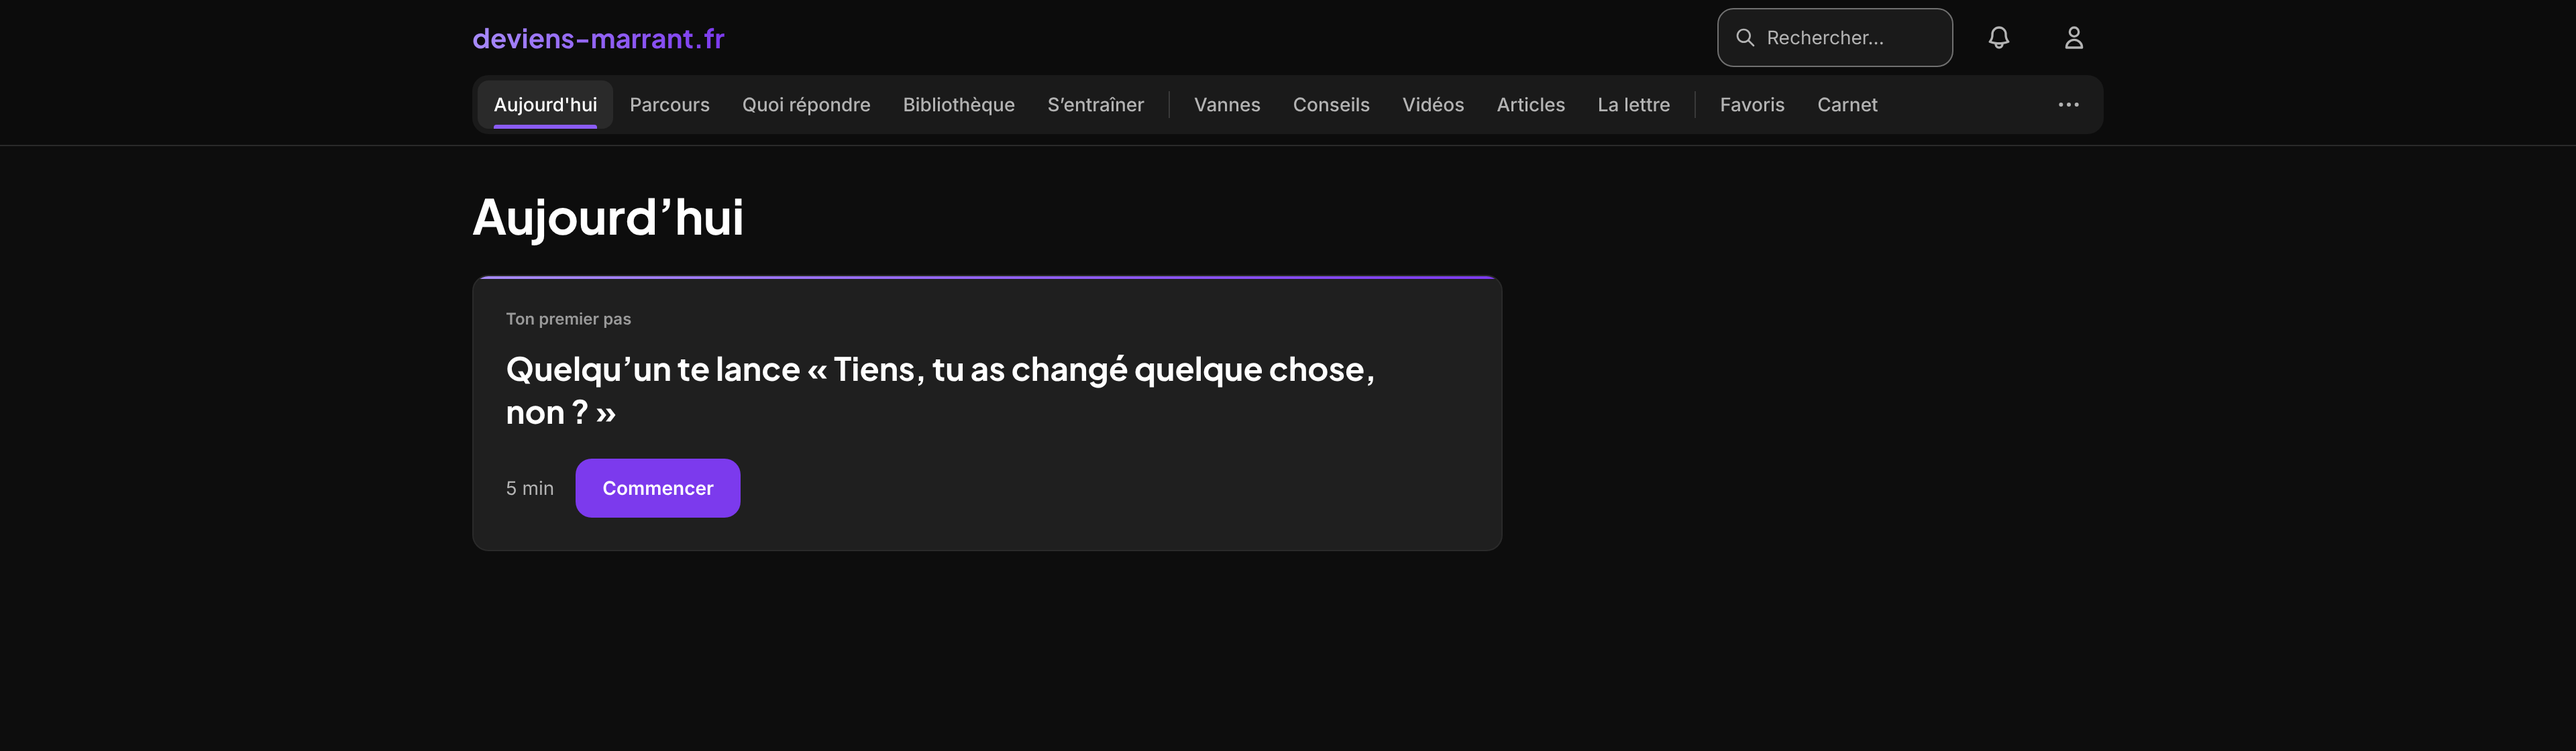
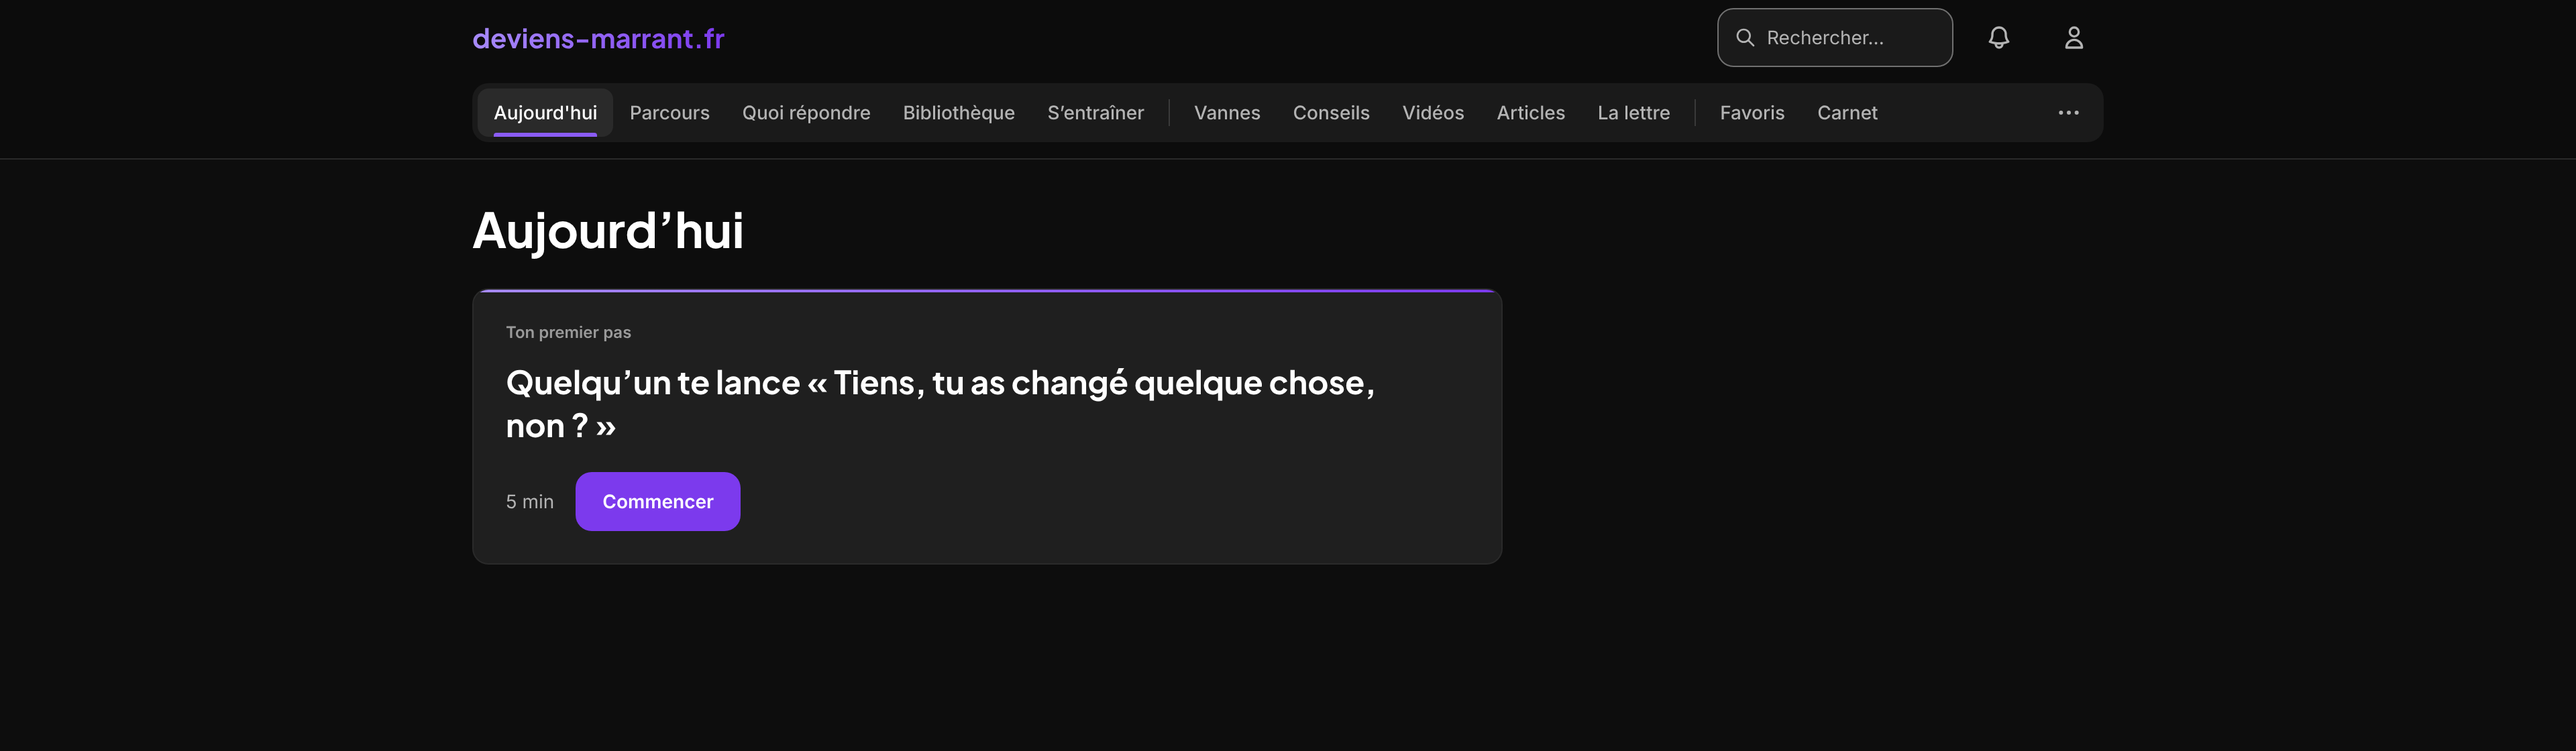
docs(design): variante D retouchée (air, fondus, suite visible, focus et menu « … »), 32 captures
Claude-Session: https://claude.ai/code/session_012PS7Smon81B1C68tKthZJ6

Changed region(s): [[0.1875, 0.25, 0.5625, 0.7188], [0.0, 0.0938, 1.0, 0.2188]]

diff --git a/docs/espace-client/etalons/nav-v6/maquette.html b/docs/espace-client/etalons/nav-v6/maquette.html
@@ -75,6 +75,9 @@ tailwind.config = {
   .plusbtn.on::after{content:"";position:absolute;left:10px;right:10px;bottom:0;height:2px;border-radius:2px 2px 0 0;background:#8B5CF6}
   /* D : pastille douce de 36 px dans une zone de 44 px, survol, actif en pastille elevated + soulignement de 3 px */
   .vd .chip{border-radius:8px}
+  .vd .chip svg{width:14px;height:14px}
+  .vd .plusbtn{border-radius:8px}
+  .vd .plusbtn:focus-visible{outline-offset:-2px;border-radius:8px}
   .vd .chip::before,.vd .plusbtn::before{content:"";position:absolute;inset:4px 0;z-index:-1;border-radius:8px;transition:background-color 150ms}
   .vd .chip:hover::before,.vd .plusbtn:hover::before{background:rgba(255,255,255,.05)}
   .vd .chip[aria-current]::before,.vd .plusbtn.on::before{background:#2A2A2A}
@@ -120,7 +123,7 @@ tailwind.config = {
     var prem = g===1 && !abonne;
     var cur = l[0]===actif ? ' aria-current="page"' : '';
     var nom = prem ? ' aria-label="'+l[0]+', rubrique Premium"' : '';
-    return '<a class="chip" data-n="'+l[0]+'" data-g="'+g+'" href="'+(l[1]?lien(l[1]):'#')+'"'+cur+nom+'>'+l[0]+(prem ? lock : '')+'</a>';
+    return '<a class="chip'+(V==="d"?' snap-start':'')+'" data-n="'+l[0]+'" data-g="'+g+'" href="'+(l[1]?lien(l[1]):'#')+'"'+cur+nom+'>'+l[0]+(prem ? lock : '')+'</a>';
   }
   function sp(n){
     if(V==="d"){ return '<span class="sp" data-s="'+n+'" aria-hidden="true" style="flex:none;width:1px;height:20px;margin:0 6px;background:#3A3A3A"></span>'; }
@@ -156,7 +159,7 @@ tailwind.config = {
   if(V==="b"){
     band = '<div class="py-2"><nav aria-label="Rubriques" class="'+wrapPad+'"><div id="rub" class="rub flex w-fit max-w-full items-center overflow-x-auto rounded-full bg-white/[.04] px-1">'+seq()+dots(false)+'</div></nav></div>';
   } else if(V==="d"){
-    band = '<div class="pb-2"><nav aria-label="Rubriques" class="'+wrapPad+'"><div id="rub" class="rub flex w-full items-center overflow-x-auto rounded-xl bg-background-light px-1">'+seq()+dots(false)+'</div></nav></div>';
+    band = '<div class="pb-2 md:pb-3 md:pt-1.5"><nav aria-label="Rubriques" class="'+wrapPad+'"><div id="rub" class="rub scroll-px-10 flex w-full items-center overflow-x-auto rounded-xl bg-background-light px-1">'+seq()+dots(false)+'</div></nav></div>';
   } else {
     band = '<nav aria-label="Rubriques" class="'+wrapPad+(V==="c"?' xl:hidden':'')+'"><div id="rub" class="rub -mx-3 flex items-center overflow-x-auto">'+seq()+dots(false)+'</div></nav>';
   }
@@ -215,7 +218,8 @@ tailwind.config = {
   function fondu(){
     if(!rub) return;
     var g = rub.scrollLeft>4, d = rub.scrollLeft < rub.scrollWidth-rub.clientWidth-4;
-    var m = "linear-gradient(to right,"+(g?"transparent 0,#000 24px":"#000 0")+","+(d?"#000 calc(100% - 24px),transparent 100%":"#000 100%")+")";
+    var e = V==="d" ? 40 : 24;
+    var m = "linear-gradient(to right,"+(g?"transparent 0,#000 "+e+"px":"#000 0")+","+(d?"#000 calc(100% - "+e+"px),transparent 100%":"#000 100%")+")";
     rub.style.webkitMaskImage = rub.style.maskImage = (g||d) ? m : "none";
   }
   function centrer(){
@@ -225,9 +229,27 @@ tailwind.config = {
       var x = a.getBoundingClientRect().left - rub.getBoundingClientRect().left + rub.scrollLeft;
       rub.scrollLeft = x - (rub.clientWidth - a.offsetWidth)/2;
     }
+    if(V==="d"){
+      /* Variante D : s'il reste du contenu à droite, un chip doit être visiblement entamé au bord (jamais un séparateur en dernier) */
+      var max = rub.scrollWidth - rub.clientWidth, base = rub.scrollLeft;
+      if(base < max-4){
+        var bord = rub.getBoundingClientRect().right;
+        for(var dx=0; dx<=40; dx+=8){
+          rub.scrollLeft = base+dx;
+          var coupe = [].some.call(rub.querySelectorAll(".chip"), function(c){
+            var r = c.getBoundingClientRect(); return r.left < bord-24 && r.right > bord; });
+          if(coupe) break;
+        }
+      }
+    }
     fondu();
   }
   if(rub){ rub.addEventListener("scroll", fondu); }
+  /* D : l'accroche (snap-x) ne s'active qu'au premier geste, pour ne pas défaire le placement d'arrivée */
+  if(rub && V==="d"){
+    var accroche = function(){ rub.classList.add("snap-x"); };
+    ["pointerdown","touchstart","wheel","keydown"].forEach(function(ev){ rub.addEventListener(ev, accroche, {once:true, passive:true}); });
+  }
 
   /* Variante C : débordement des rubriques les moins prioritaires dans « … » (dès 1280 px) */
   var cache = [];
@@ -268,7 +290,7 @@ tailwind.config = {
     menu.innerHTML = (V==="d" ? '<div class="filet"></div>' : '') + liste.map(function(it){
       var prem = it[1] && !abonne;
       return '<a role="menuitem" href="'+it[2]+'" class="flex h-11 items-center justify-between gap-3 rounded-md px-3 text-sm font-medium text-text-secondary hover:bg-background-elevated hover:text-text-primary">'+it[0]+
-        (prem ? '<span style="width:12px;height:12px;color:#9A9A9A">'+lock.replace('<svg','<svg style="width:12px;height:12px"')+'</span>' : '')+'</a>';
+        (prem ? '<span style="width:'+(V==="d"?14:12)+'px;height:'+(V==="d"?14:12)+'px;color:#9A9A9A">'+lock.replace('<svg','<svg style="width:'+(V==="d"?14:12)+'px;height:'+(V==="d"?14:12)+'px"')+'</span>' : '')+'</a>';
     }).join('');
   }
   function ouvrir(b, o){
@@ -286,6 +308,28 @@ tailwind.config = {
   [].forEach.call(document.querySelectorAll(".plusbtn"), function(b){
     b.addEventListener("click", function(){ ouvrir(b, menu.hidden || courant!==b); });
   });
+  if(V==="d"){
+    /* Clic dehors ferme ; flèches haut et bas (et Début, Fin) entre les lignes ; flèche bas sur « … » ouvre et va à la 1re ligne */
+    document.addEventListener("click", function(e){
+      if(menu.hidden) return;
+      if(menu.contains(e.target) || e.target.closest(".plusbtn")) return;
+      ouvrir(courant,false);
+    });
+    var lignesMenu = function(){ return [].slice.call(menu.querySelectorAll("[role=menuitem]")); };
+    menu.addEventListener("keydown", function(e){
+      var l = lignesMenu(), i = l.indexOf(document.activeElement), n = -1;
+      if(e.key==="ArrowDown") n = (i+1)%l.length;
+      else if(e.key==="ArrowUp") n = (i-1+l.length)%l.length;
+      else if(e.key==="Home") n = 0;
+      else if(e.key==="End") n = l.length-1;
+      if(n>=0){ e.preventDefault(); l[n].focus(); }
+    });
+    [].forEach.call(document.querySelectorAll(".plusbtn"), function(b){
+      b.addEventListener("keydown", function(e){
+        if(e.key==="ArrowDown"){ e.preventDefault(); if(menu.hidden || courant!==b){ ouvrir(b,true); } var l = lignesMenu(); if(l[0]) l[0].focus(); }
+      });
+    });
+  }
   document.addEventListener("keydown", function(e){ if(e.key==="Escape" && !menu.hidden){ var b=courant; ouvrir(b,false); b.focus(); } });
 
   function tout(){ debordement(); centrer(); }
